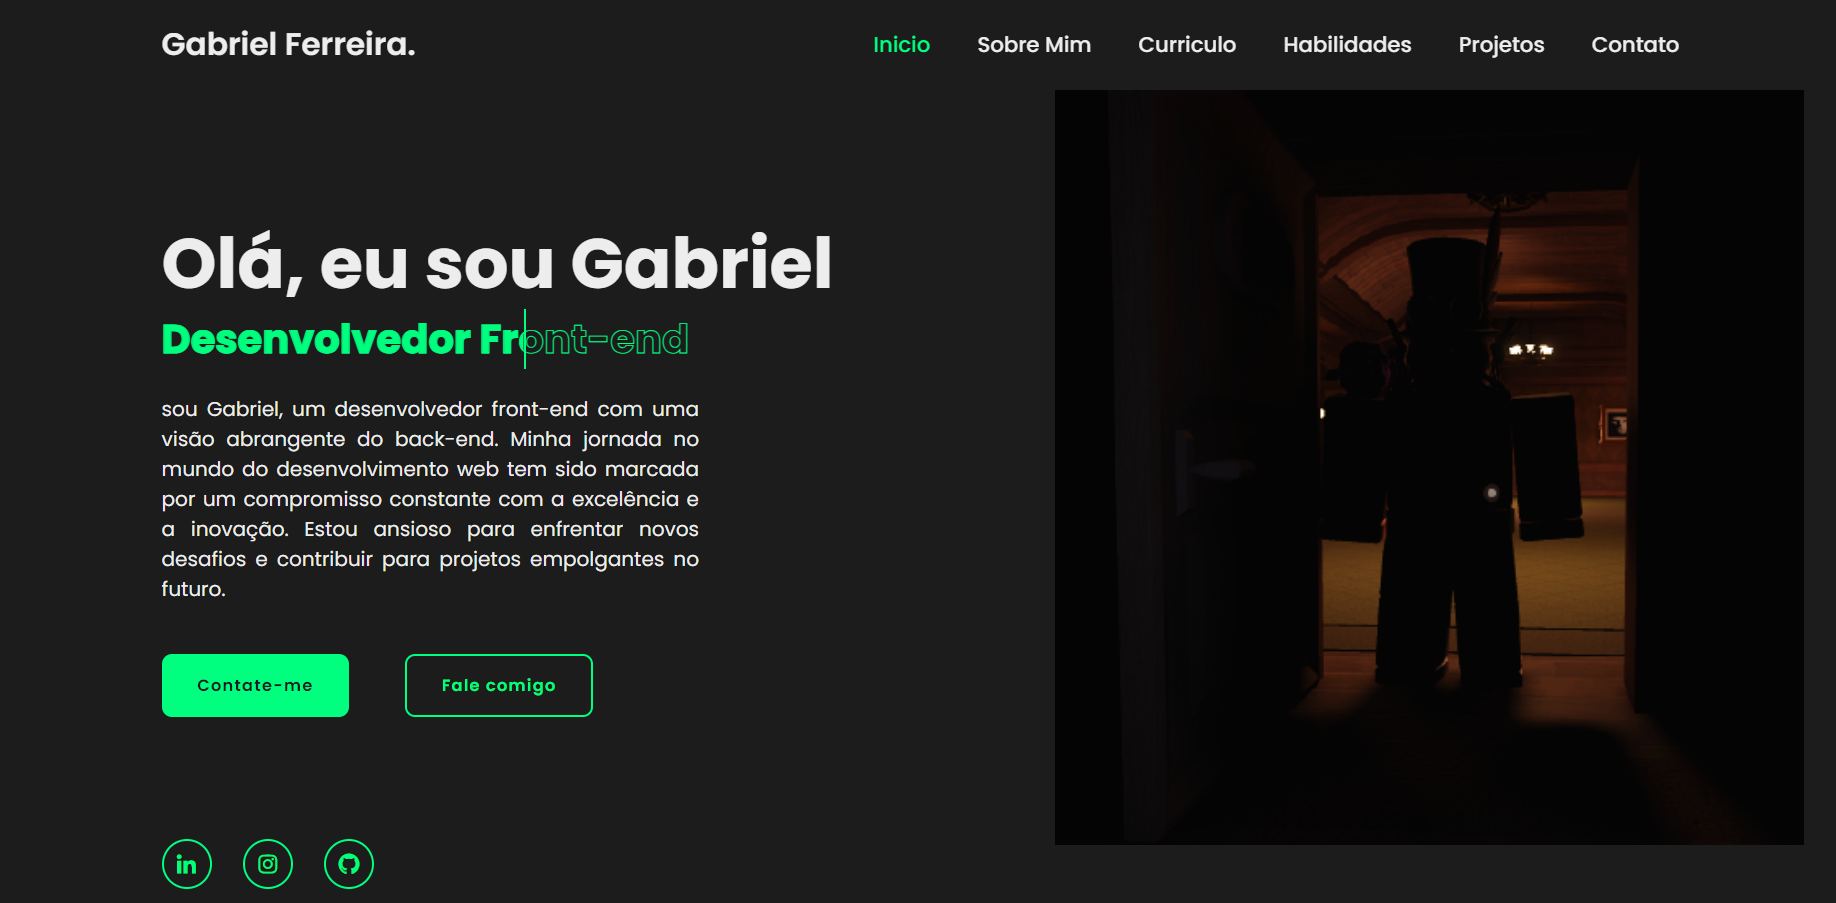
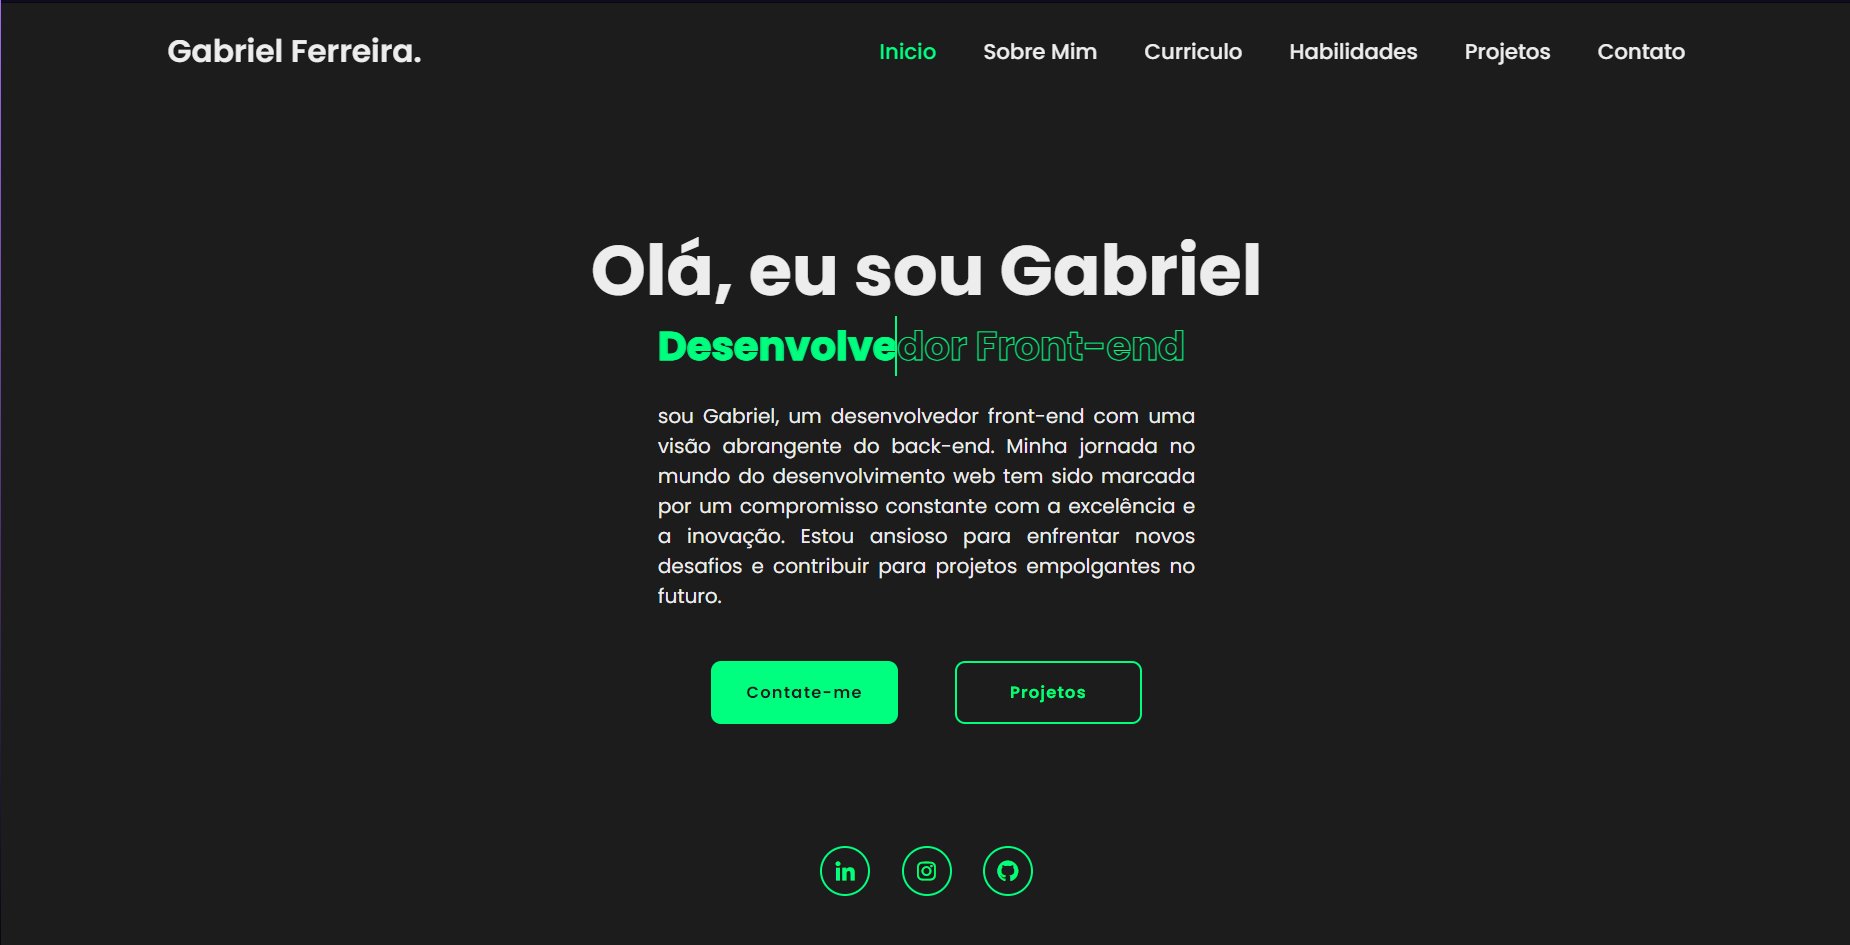
portifolio

diff --git a/style.css b/style.css
@@ -86,11 +86,16 @@ section {
 .home {
   display: flex;
   align-items: center;
+  justify-content: center;
   padding: 0 9%;
 }
 
 .home-content {
   max-width: 60rem;
+  display: flex;
+  flex-direction: column;
+  align-items: center;
+  justify-content: center;
   z-index: 99;
 }
 
@@ -187,23 +192,15 @@ section {
   text-justify: inter-word;
 }
 
-.home-imgHover {
-  display: flex;
-  align-items: center;
-  justify-content: center;
-}
 
-.home-imgHover img {
-  width: 90%;
-  height: 80%;
-}
 
-.home-imgHover:hover {
-  background: var(--bg-color);
-  opacity: 0.8;
-}
+
+
 
 .btn-box {
+  display: flex;
+  justify-content: center;
+  align-items: center;
   position: relative;
   display: flex;
   justify-content: space-between;
@@ -309,20 +306,6 @@ section {
 
 .home-sci a:hover::before {
   width: 100%;
-}
-
-.home-imgHover {
-  position: absolute;
-  top: 0;
-  right: 0;
-  width: 45%;
-  height: 100%;
-  background: transparent;
-  transition: 0.5s;
-}
-*/ .home-imgHover:hover {
-  background-color: var(--bg-color);
-  opacity: 0.8;
 }
 
 .about {
@@ -884,10 +867,6 @@ section:nth-child(add) .animate.scroll,
   .conteudo-cards p {
     font-size: 1rem;
   }
-  .home-imgHover img {
-    width: 90%;
-    height: 40%;
-  }
 }
 
 @media (max-width: 991px) {
@@ -905,26 +884,11 @@ section:nth-child(add) .animate.scroll,
   .footer {
     padding: 2rem 4%;
   }
-
-  .home-imgHover img {
-    width: 90%;
-    height: 30%;
-  }
-}
-
-@media (max-width: 850px) {
-  .animate.home-img {
-    width: 55%;
-  }
 }
 
 @media (max-width: 768px) {
   .header {
     background: var(--bg-color);
-  }
-
-  .home-imgHover {
-    display: none;
   }
 
   #menu-icon {

diff --git a/index.html b/index.html
@@ -75,10 +75,10 @@
           <span class="animate" style="--i: 6"></span>
         </div>
 
-         <div class="home-imgHover">
-        <img src="assets/roblox.png" alt="" />
+         <!-- <div class="home-imgHover">
+        <img src="assets/fotosemfundo.png" alt="" />
         <span class="animate home-img" style="--i: 7"></span>
-      </div>
+      </div> -->
       </section>
 
       <section class="about" id="about">
